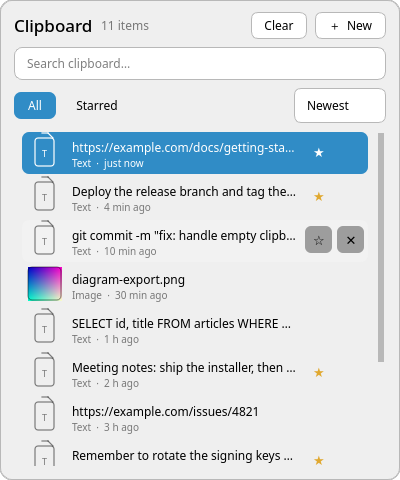
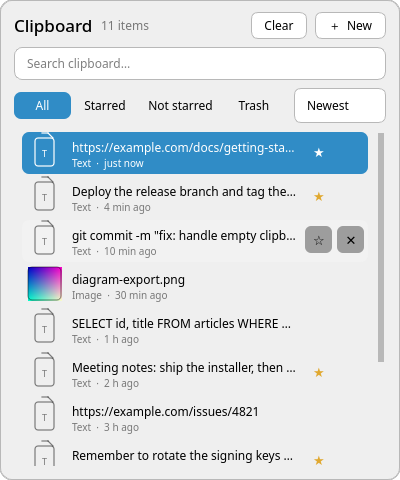
docs: cover the Not starred and Trash tabs
README: usage table now lists all four tabs and the trash
actions, 'How it works' explains why the sidecar keeps restored
images working, and troubleshooting gets an 'I deleted something
by accident' entry. Fixes a paragraph that was splitting the
usage table in half.

DEVELOPMENT: preview states, the trash sandbox rule in the test
principles, and the new Store/sidecar functions in the
architecture listing. Drops the stale hardcoded check count the
same paragraph tells you not to quote.

AGENTS: 'The trash is ours, not Klipper's' — keep aux rows until
Clear Trash, never write trashed rows back into Klipper's main.

CHANGELOG: the two tabs, restorable deletes, the ✕ behaviour
change, and the Meta+V reopen fix.

make-screenshots.sh: builds a trash sidecar in the fixture and
keeps preview-notstarred.png / preview-trash.png instead of
deleting them.

Changed region(s): [[0.06, 0.1875, 0.3, 0.25], [0.36, 0.1875, 0.54, 0.25], [0.6, 0.1875, 0.66, 0.25]]

diff --git a/README.md b/README.md
@@ -63,27 +63,34 @@ ydotool key 29:1 29:0                        # expect: silent, exit 0
 | Close by clicking elsewhere | click outside the panel |
 | Paste an item | click it, or select + `Enter` |
 | Search | type in the search box |
-| Switch tab | **All** / **Starred** |
+| Switch tab | **All** / **Starred** / **Not starred** / **Trash** |
 | Star an item | hover the row → **★** (left button) |
-| Delete an item | hover the row → **✕** (right button), or right-click → Delete |
-
-The ★ and ✕ buttons are click targets whether or not they are currently drawn,
-so a fast click still hits them.
+| Delete an item | hover the row → **✕** (right button), or right-click → Move to trash |
+| Restore from trash | on the **Trash** tab → **↩**, or right-click → Restore |
 | Copy without pasting | right-click → Copy only |
 | Add an entry | **＋ New**, type, `Enter` |
 | Clear unstarred entries | **Clear**, then confirm in the popup |
+| Empty the trash | **Trash** tab → **Clear Trash**, then confirm |
 | Sort | dropdown: Newest / Oldest / A–Z / Z–A |
 | Close without pasting | `Esc` |
+
+The ★ and ✕/↩ buttons are click targets whether or not they are currently
+drawn, so a fast click still hits them.
 
 ![Hover actions](docs/preview-hover.png)
 
 Notes:
 
-- The **Starred** tab only appears when something is starred, so it never
-  clutters the UI. Starred entries are *not* pinned to the top of the All tab —
-  they sort normally and live in their own tab.
-- **Clear** removes every unstarred entry and always keeps starred ones. It asks
-  for confirmation and tells you both counts before you commit.
+- The **Starred**, **Not starred** and **Trash** tabs only appear when they have
+  something to show, so they never clutter the UI. Starred entries are *not*
+  pinned to the top of the All tab — they sort normally and live in their own
+  tab.
+- **✕ never loses anything.** Deleting moves the entry to the **Trash** tab, and
+  on that tab the same button becomes **↩ restore** (the star button there
+  restores *and* stars). Clicking a trash row never pastes it.
+- **Clear** on a history tab removes every unstarred entry and always keeps
+  starred ones. **Clear Trash** is red and named differently precisely so the
+  two can never be confused; it asks for confirmation with counts either way.
 - Text and images are both handled. Copied **image files** (a `file://` path to a
   PNG/JPG/etc.) are detected and shown with a real thumbnail and filename.
 - Timestamps are relative: "just now", "19 min ago", "1 h ago".
@@ -102,8 +109,13 @@ Klipper (Plasma's clipboard manager) keeps history in SQLite at
 **not** limited by Klipper's in-memory cap. Image payloads live as
 content-addressed files under `~/.local/share/klipper/data/`.
 
-Starring, deleting and clearing write to that same database, so Klipper sees the
-changes and keeps its Starred tab in sync.
+Starring, clearing and restoring write to that same database, so Klipper sees
+the changes and keeps its Starred tab in sync.
+
+Deleting does **not** write to Klipper's database — it moves the row into a
+sidecar at `~/.local/share/custom-clipboard/trash.json`, so restoring is a copy
+back. Image payloads are left in Klipper's `data/` tree until the trash itself is
+emptied, which is why restored images still show a thumbnail.
 
 Clicking an item sets it through Klipper's own D-Bus API, closes the popup, waits
 ~200 ms for focus to return to your app, then injects Ctrl+V.
@@ -174,6 +186,10 @@ type, and the button hit-test has to handle it.
 
 **Clear says "Nothing to clear".** Every entry is starred, and Clear spares
 starred entries by design. Unstar some first.
+
+**"I deleted something by accident."** Open the **Trash** tab and click **↩**,
+or right-click the row → Restore. Entries only disappear for good when you press
+**Clear Trash**.
 
 ---
 

diff --git a/DEVELOPMENT.md b/DEVELOPMENT.md
@@ -45,7 +45,7 @@ function-pointer connections.
 | `./custom-clipboard` | normal, resident, waits for Meta+V |
 | `./custom-clipboard --selftest` | one-line summary, no window |
 | `./custom-clipboard --test` | full suite, no window |
-| `./custom-clipboard --preview DIR` | render five UI states to PNG |
+| `./custom-clipboard --preview DIR` | render the UI states to PNG |
 | `./custom-clipboard --screenshot F --state S` | render one state |
 
 `--preview` / `--screenshot` need `QT_QPA_PLATFORM=offscreen` to avoid touching
@@ -56,7 +56,9 @@ QT_QPA_PLATFORM=offscreen ./custom-clipboard --preview /tmp/states
 QT_QPA_PLATFORM=offscreen ./custom-clipboard --screenshot out.png --state hover
 ```
 
-States: `all`, `starred`, `search`, `alpha`, `new`, `hover`, `confirm`.
+States: `all`, `starred`, `notstarred`, `search`, `alpha`, `trash`, `new`,
+`hover`, `confirm`. The tab states need a fixture with content in that tab —
+`docs/make-screenshots.sh` builds one.
 
 ## Testing
 
@@ -64,9 +66,9 @@ States: `all`, `starred`, `search`, `alpha`, `new`, `hover`, `confirm`.
 QT_QPA_PLATFORM=offscreen ./custom-clipboard --test
 ```
 
-56 checks over the read path, sorting, search and tab filtering, the write path,
-the confirm popup, outside-click dismissal, double-click handling and the
-environment. The suite prints its own total, so do not quote a number here.
+Checks over the read path, sorting, search and tab filtering, the write path,
+the trash, the confirm popup, outside-click dismissal, double-click handling and
+the environment. The suite prints its own total, so do not quote a number here.
 
 Principles the suite follows:
 
@@ -76,6 +78,10 @@ Principles the suite follows:
   see [AGENTS.md](AGENTS.md). The suite refuses to start if the sandbox is not
   active, asserts the real row count is unchanged at the end, and fails loudly
   if the real history is empty.
+- **The trash sidecar is sandboxed too.** `CUSTOM_CLIPBOARD_TRASH` points the
+  trash at the sandbox for the whole suite, with its own refuse-to-start guard —
+  an unsandboxed trash test would empty the real trash for the same reason an
+  unsandboxed delete test destroyed the real history.
 - **Synthetic events, not injected input.** Clicks are delivered with
   `QApplication::sendEvent` straight to the widget. That exercises the same
   hit-testing a real click does without sending anything to the OS input layer.
@@ -102,9 +108,12 @@ Entry            one history row
 readHistory()    SELECT from history3.sqlite          (read-only)
 loadImage()      resolve an image blob to a QImage
 imageFileName()  Klipper's stored filename for an image
-Store            shared state: entries, thumbnail cache, hover row
+Store            shared state: entries, trash, thumbnail cache, hover row
 RowDelegate      paints a row: thumbnail, text, timestamp, buttons
-Deck             the popup: layout, tabs, search, sort, actions
+Deck             the popup: layout, four tabs, search, sort, actions
+loadTrash()      read the trash sidecar (~/.local/share/custom-clipboard/trash.json)
+trashEntry()     capture a row into the trash, then drop it from history
+restoreEntry()   copy a trashed row back into history
 ```
 
 `Store` exists so `RowDelegate` never needs to know about `Deck` — depending on

diff --git a/CHANGELOG.md b/CHANGELOG.md
@@ -13,12 +13,20 @@ Format based on [Keep a Changelog](https://keepachangelog.com/en/1.1.0/).
 - Search box, pinned to the top of the popup.
 - **All** / **Starred** tabs. The Starred tab only appears when something is
   starred.
+- **Not starred** tab — the complement of Starred, so you can act on everything
+  that is *not* protected. Appears only when unstarred entries exist.
+- **Trash** tab with restorable deletes. ✕ moves the entry into a JSON sidecar
+  (`~/.local/share/custom-clipboard/trash.json`) instead of destroying it; on
+  the Trash tab the buttons become **↩ restore** and **restore + star**, a body
+  click never pastes, and **Clear Trash** (red, its own confirmation) empties
+  the sidecar. Image payloads survive until then, so restored thumbnails work.
 - Sorting: Newest, Oldest, A–Z, Z–A.
 - Relative timestamps per row ("just now", "19 min ago", "1 h ago").
 - Image thumbnails, including copied image *files* (`file://` URIs) which Klipper
   records as text.
 - Per-row star and remove buttons, revealed on hover.
-- Right-click menu: Star/Unstar, Copy only, Delete entry.
+- Right-click menu: Star/Unstar, Copy only, Move to trash (Restore / Restore and
+  star / Copy only on the Trash tab).
 - **＋ New** — add an entry to the clipboard from an inline field.
 - **Clear** — remove every unstarred entry, with an in-window confirmation that
   reports both counts.
@@ -33,8 +41,15 @@ Format based on [Keep a Changelog](https://keepachangelog.com/en/1.1.0/).
   colours: 400px wide, rounded panel, 28px action buttons.
 - The status line floats over the list instead of sitting below it, so showing a
   message no longer resizes the list and shifts the rows.
+- The per-row ✕ and the right-click *Delete entry* no longer delete outright;
+  they move the entry to the Trash tab (renamed *Move to trash*).
 
 ### Fixed
+- Meta+V did not reopen the panel for a while after closing it with an outside
+  click. The window's `isVisible()` lags the asynchronous Wayland hide, so the
+  toggle thought the panel was still open and hid it again. The intent is now
+  tracked explicitly (`m_wantVisible`) and outside-click dismissal arms on
+  window activation instead of a timer.
 - Clicking a row no longer closes the panel without pasting when the click
   deactivated the window. Dismissal on an outside click now checks that the
   pointer is genuinely off the panel, and ignores deactivations caused by the

diff --git a/AGENTS.md b/AGENTS.md
@@ -52,6 +52,10 @@ that clicks the ✕ button deleted real entries on every run.
 - Fail loudly when the real history is empty; otherwise the read and write
   checks pass *vacuously* rather than meaningfully.
 - Never assert a count. Assert an outcome.
+- The trash sidecar needs the same treatment: `CUSTOM_CLIPBOARD_TRASH` redirects
+  it for the whole suite, with its own refuse-to-start guard. Deleting now
+  *moves* entries there, so a suite that could reach it would silently capture
+  or empty the real trash.
 
 Recovery, if it ever happens: deleted rows survive in `history3.sqlite-wal`, and
 `tools/recover-klipper-history.py` carves them out. Back the database up first.
@@ -216,6 +220,18 @@ misleading "the button doesn't work" bug.
 
 They have their own tab. Within "All", sorting must ignore `starred` entirely.
 There is a fixture-based test for this; keep it that way.
+
+### The trash is ours, not Klipper's
+
+- Sidecar: `~/.local/share/custom-clipboard/trash.json`, a JSON array of row
+  objects. `CUSTOM_CLIPBOARD_TRASH` redirects it (tests and screenshots).
+- Trashing deletes only the `main` row and **keeps the `aux` rows**, so a
+  restored image still resolves its thumbnail; `clearTrash()` purges them.
+- Restoring copies the row back into `main` with its original uuid and starred
+  state. Never write trashed rows into Klipper's `main` "to keep things tidy" —
+  they would immediately reappear in the history.
+- The trash tab (index 3) hides whenever the sidecar is empty, like the other
+  conditional tabs.
 
 ## Before you claim something works
 
